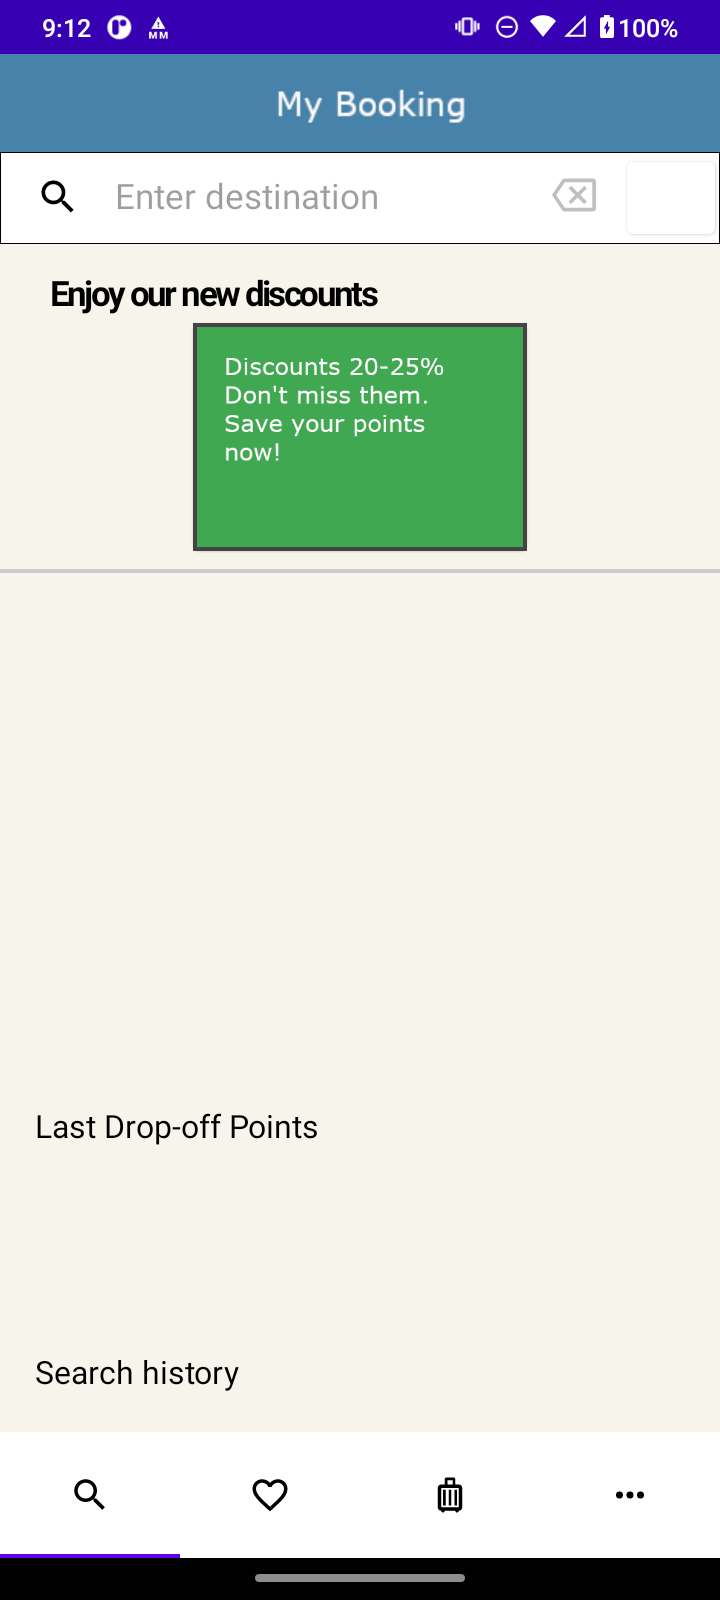
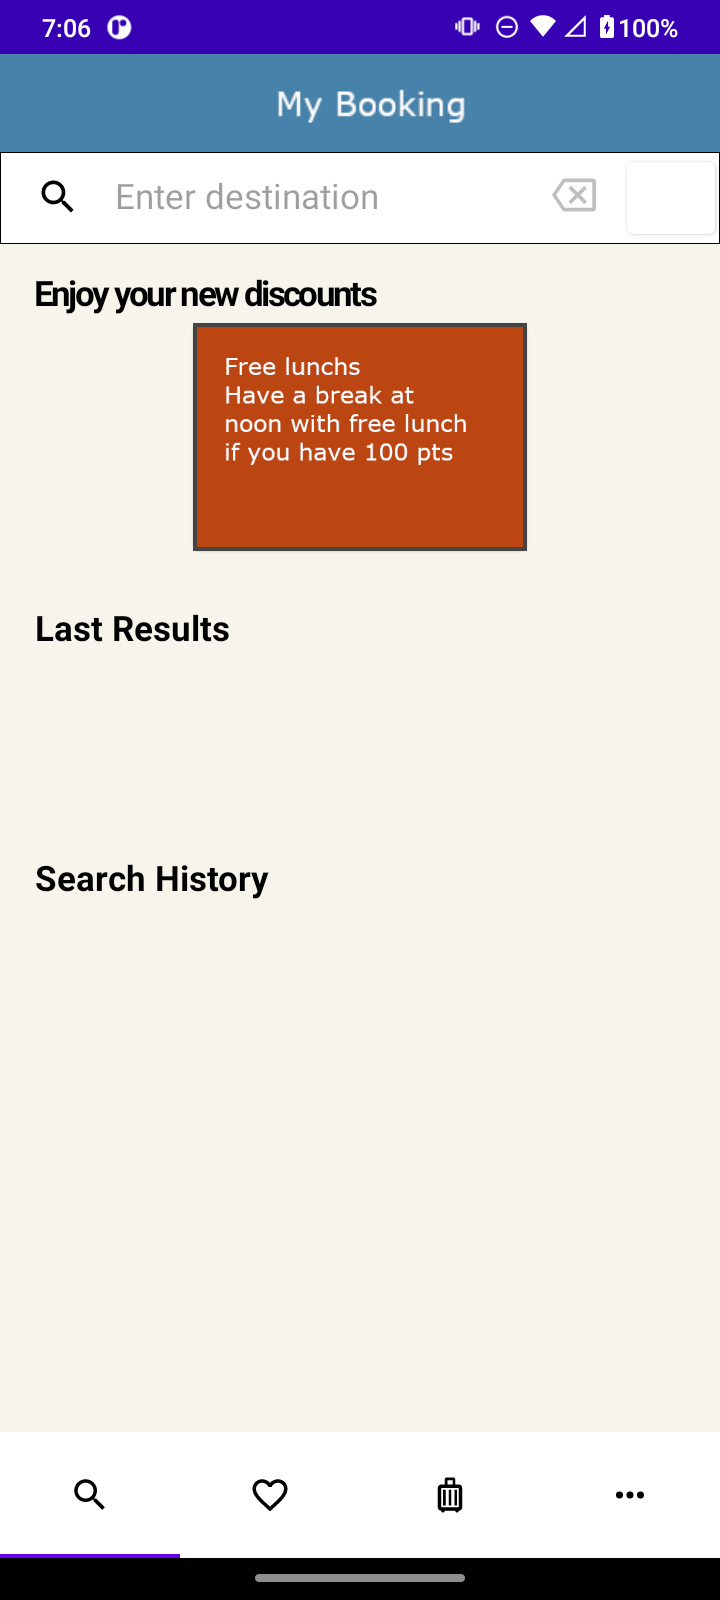
Home page text and style improved

diff --git a/app/src/main/java/com/android/java/androiddemo/controller/tabview/home/DemoProductBrowserView.kt b/app/src/main/java/com/android/java/androiddemo/controller/tabview/home/DemoProductBrowserView.kt
@@ -45,15 +45,19 @@ class DemoProductBrowserView(activity: Activity,
     override fun browserView(
     ) {
         val images = intArrayOf(
-            com.android.java.androiddemo.R.drawable.discount01, com.android.java.androiddemo.R.drawable.discount02,
-            com.android.java.androiddemo.R.drawable.discount03)
+            com.android.java.androiddemo.R.drawable.discount01,
+            com.android.java.androiddemo.R.drawable.discount02,
+            com.android.java.androiddemo.R.drawable.discount03
+        )
 
         Column {
             Spacer(modifier = Modifier.height(56.dp))
             mSearchBox.show()
 
-            Spacer(modifier = Modifier.height(5.dp))
-            browserPager("Enjoy our new discounts", images, ContentScale.FillBounds) {
+            Spacer(modifier = Modifier
+                .height(5.dp)
+            )
+            browserPager("Enjoy your new discounts", images, ContentScale.FillBounds) {
                 FragmentProductSelection.setFilterField("sustainable")
                 mNavigatorManager!!.navigator().showFragment("products")
             }
